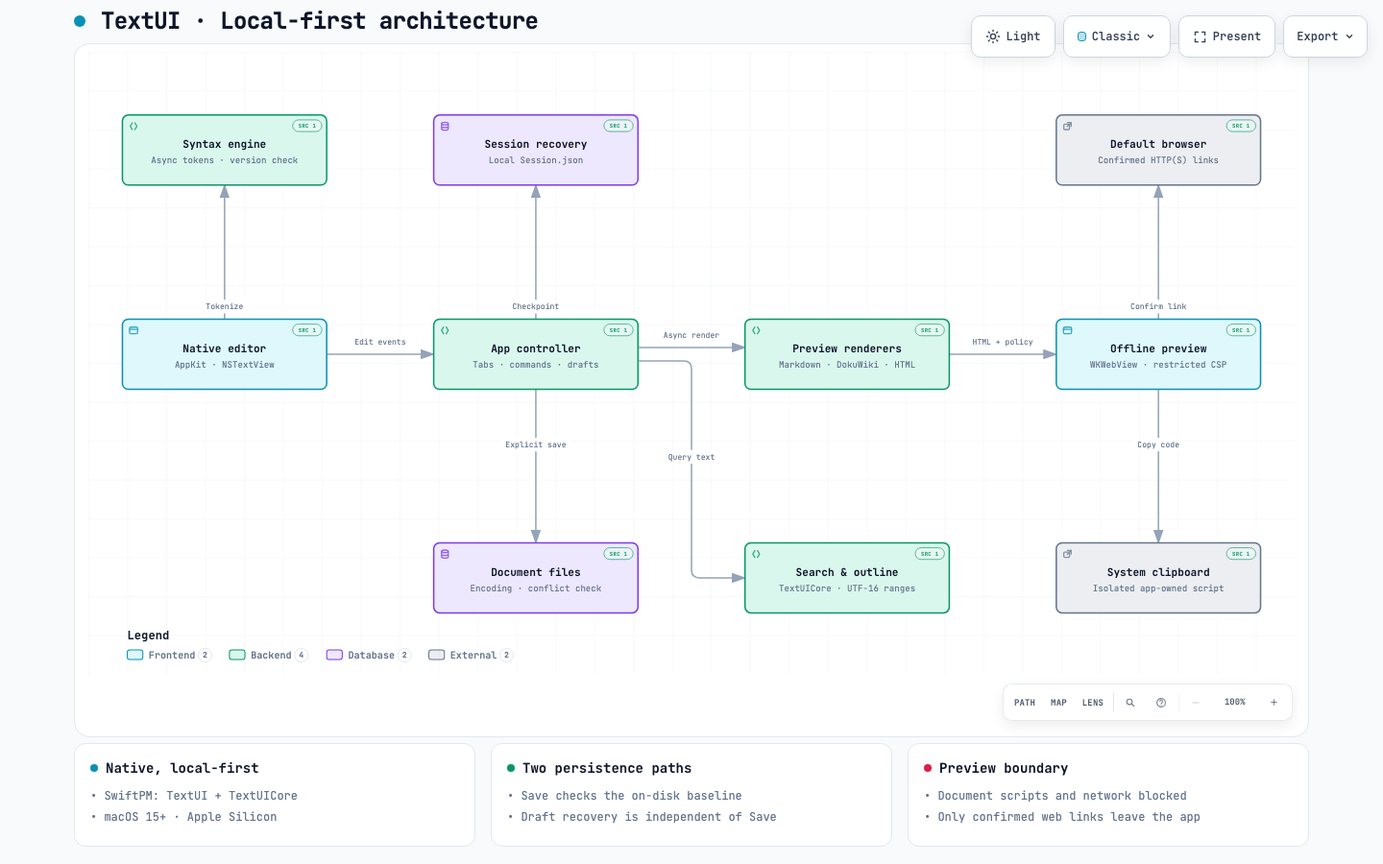
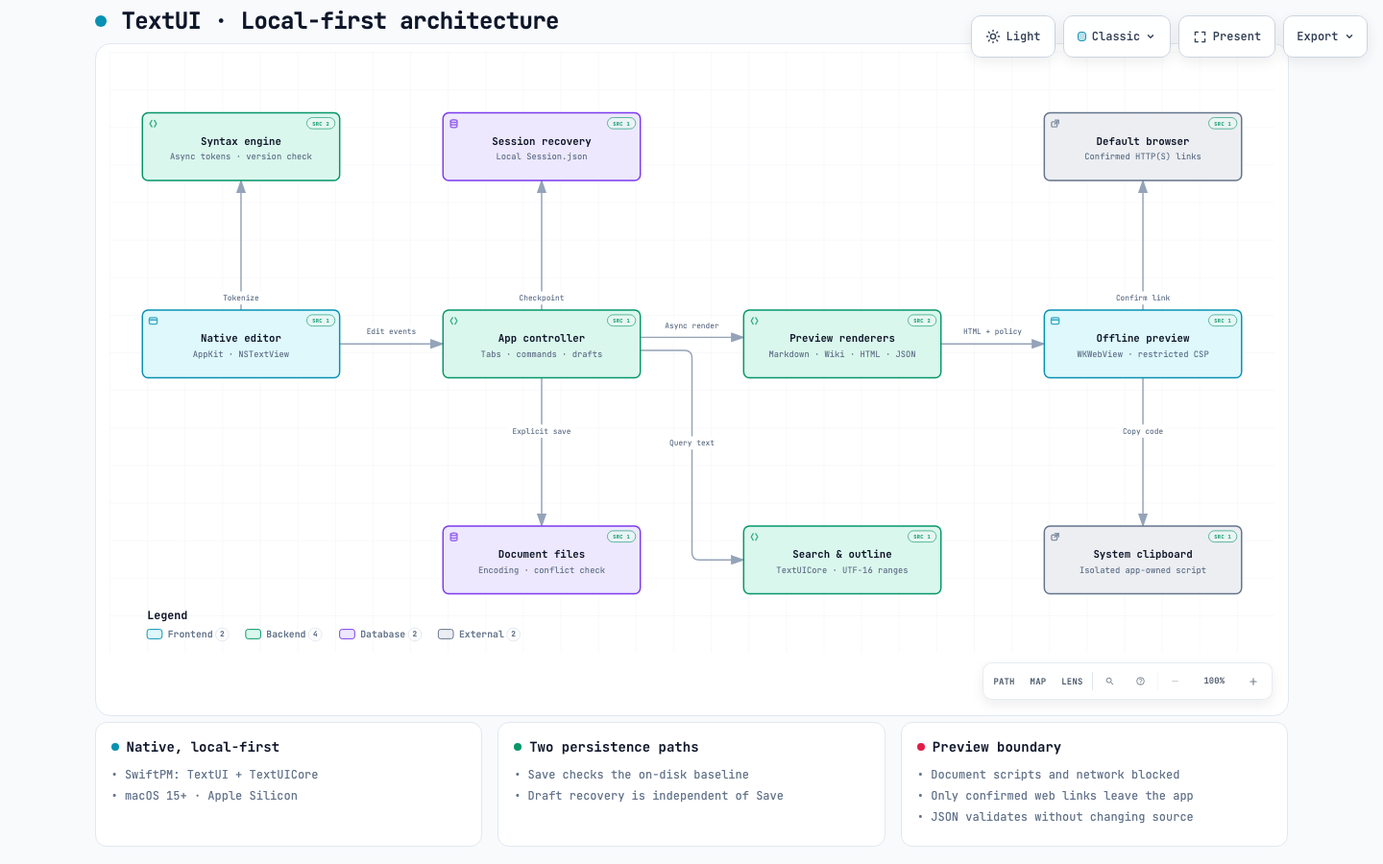
Document JSON support in the verified architecture page

diff --git a/docs/index.html b/docs/index.html
@@ -5086,7 +5086,7 @@ OTHER DEALINGS IN THE FONT SOFTWARE.
     </div>
 
     <script id="archify-guided-views-data" type="application/json">[]</script>
-    <script id="archify-source-evidence-data" type="application/json">{"schemaVersion":1,"verified":true,"repository":{"url":"https://github.com/r3d42-git/R3DsTextUI","revision":"73adb159cf5579e12d25bb16bd4c21d1ea8dd4b3","shortRevision":"73adb15","label":"r3d42-git/R3DsTextUI","href":"https://github.com/r3d42-git/R3DsTextUI/tree/73adb159cf5579e12d25bb16bd4c21d1ea8dd4b3"},"referenceCount":10,"nodes":{"editor":[{"path":"Sources/TextUI/EditorPane.swift","line":5,"href":"https://github.com/r3d42-git/R3DsTextUI/blob/73adb159cf5579e12d25bb16bd4c21d1ea8dd4b3/Sources/TextUI/EditorPane.swift#L5"}],"controller":[{"path":"Sources/TextUI/AppController.swift","line":16,"href":"https://github.com/r3d42-git/R3DsTextUI/blob/73adb159cf5579e12d25bb16bd4c21d1ea8dd4b3/Sources/TextUI/AppController.swift#L16"}],"renderers":[{"path":"Sources/TextUI/AppController.swift","line":567,"href":"https://github.com/r3d42-git/R3DsTextUI/blob/73adb159cf5579e12d25bb16bd4c21d1ea8dd4b3/Sources/TextUI/AppController.swift#L567"}],"webview":[{"path":"Sources/TextUI/AppController.swift","line":573,"href":"https://github.com/r3d42-git/R3DsTextUI/blob/73adb159cf5579e12d25bb16bd4c21d1ea8dd4b3/Sources/TextUI/AppController.swift#L573"}],"syntax":[{"path":"Sources/TextUI/EditorPane.swift","line":174,"href":"https://github.com/r3d42-git/R3DsTextUI/blob/73adb159cf5579e12d25bb16bd4c21d1ea8dd4b3/Sources/TextUI/EditorPane.swift#L174"}],"session":[{"path":"Sources/TextUICore/Documents.swift","line":100,"href":"https://github.com/r3d42-git/R3DsTextUI/blob/73adb159cf5579e12d25bb16bd4c21d1ea8dd4b3/Sources/TextUICore/Documents.swift#L100"}],"files":[{"path":"Sources/TextUICore/Documents.swift","line":86,"href":"https://github.com/r3d42-git/R3DsTextUI/blob/73adb159cf5579e12d25bb16bd4c21d1ea8dd4b3/Sources/TextUICore/Documents.swift#L86"}],"search":[{"path":"Sources/TextUI/AppController.swift","line":489,"href":"https://github.com/r3d42-git/R3DsTextUI/blob/73adb159cf5579e12d25bb16bd4c21d1ea8dd4b3/Sources/TextUI/AppController.swift#L489"}],"browser":[{"path":"Sources/TextUI/AppController.swift","line":597,"href":"https://github.com/r3d42-git/R3DsTextUI/blob/73adb159cf5579e12d25bb16bd4c21d1ea8dd4b3/Sources/TextUI/AppController.swift#L597"}],"clipboard":[{"path":"Sources/TextUI/PreviewCodeCopy.swift","line":11,"href":"https://github.com/r3d42-git/R3DsTextUI/blob/73adb159cf5579e12d25bb16bd4c21d1ea8dd4b3/Sources/TextUI/PreviewCodeCopy.swift#L11"}]}}</script>
+    <script id="archify-source-evidence-data" type="application/json">{"schemaVersion":1,"verified":true,"repository":{"url":"https://github.com/r3d42-git/R3DsTextUI","revision":"4a90c64e67d5fc52b7861e375b01907dca56f409","shortRevision":"4a90c64","label":"r3d42-git/R3DsTextUI","href":"https://github.com/r3d42-git/R3DsTextUI/tree/4a90c64e67d5fc52b7861e375b01907dca56f409"},"referenceCount":12,"nodes":{"editor":[{"path":"Sources/TextUI/EditorPane.swift","line":5,"href":"https://github.com/r3d42-git/R3DsTextUI/blob/4a90c64e67d5fc52b7861e375b01907dca56f409/Sources/TextUI/EditorPane.swift#L5"}],"controller":[{"path":"Sources/TextUI/AppController.swift","line":16,"href":"https://github.com/r3d42-git/R3DsTextUI/blob/4a90c64e67d5fc52b7861e375b01907dca56f409/Sources/TextUI/AppController.swift#L16"}],"renderers":[{"path":"Sources/TextUI/AppController.swift","line":568,"href":"https://github.com/r3d42-git/R3DsTextUI/blob/4a90c64e67d5fc52b7861e375b01907dca56f409/Sources/TextUI/AppController.swift#L568"},{"path":"Sources/TextUICore/JSONPreview.swift","line":5,"href":"https://github.com/r3d42-git/R3DsTextUI/blob/4a90c64e67d5fc52b7861e375b01907dca56f409/Sources/TextUICore/JSONPreview.swift#L5"}],"webview":[{"path":"Sources/TextUI/AppController.swift","line":574,"href":"https://github.com/r3d42-git/R3DsTextUI/blob/4a90c64e67d5fc52b7861e375b01907dca56f409/Sources/TextUI/AppController.swift#L574"}],"syntax":[{"path":"Sources/TextUI/EditorPane.swift","line":174,"href":"https://github.com/r3d42-git/R3DsTextUI/blob/4a90c64e67d5fc52b7861e375b01907dca56f409/Sources/TextUI/EditorPane.swift#L174"},{"path":"Sources/TextUICore/SyntaxHighlighting.swift","line":31,"href":"https://github.com/r3d42-git/R3DsTextUI/blob/4a90c64e67d5fc52b7861e375b01907dca56f409/Sources/TextUICore/SyntaxHighlighting.swift#L31"}],"session":[{"path":"Sources/TextUICore/Documents.swift","line":101,"href":"https://github.com/r3d42-git/R3DsTextUI/blob/4a90c64e67d5fc52b7861e375b01907dca56f409/Sources/TextUICore/Documents.swift#L101"}],"files":[{"path":"Sources/TextUICore/Documents.swift","line":87,"href":"https://github.com/r3d42-git/R3DsTextUI/blob/4a90c64e67d5fc52b7861e375b01907dca56f409/Sources/TextUICore/Documents.swift#L87"}],"search":[{"path":"Sources/TextUI/AppController.swift","line":489,"href":"https://github.com/r3d42-git/R3DsTextUI/blob/4a90c64e67d5fc52b7861e375b01907dca56f409/Sources/TextUI/AppController.swift#L489"}],"browser":[{"path":"Sources/TextUI/AppController.swift","line":598,"href":"https://github.com/r3d42-git/R3DsTextUI/blob/4a90c64e67d5fc52b7861e375b01907dca56f409/Sources/TextUI/AppController.swift#L598"}],"clipboard":[{"path":"Sources/TextUI/PreviewCodeCopy.swift","line":11,"href":"https://github.com/r3d42-git/R3DsTextUI/blob/4a90c64e67d5fc52b7861e375b01907dca56f409/Sources/TextUI/PreviewCodeCopy.swift#L11"}]}}</script>
     <script id="archify-i18n-data" type="application/json">{"locale":"en","messages":{"viewer.kind.frontend":"Frontend","viewer.kind.backend":"Backend","viewer.kind.database":"Database","viewer.kind.cloud":"Cloud","viewer.kind.security":"Security","viewer.kind.messagebus":"Message bus","viewer.kind.external":"External","viewer.kind.neutral":"Neutral","viewer.kind.node":"Node","viewer.kind.start":"Start","viewer.kind.active":"Active","viewer.kind.waiting":"Waiting","viewer.kind.decision":"Decision","viewer.kind.success":"Success","viewer.kind.failure":"Failure","viewer.toolbar.actions":"Diagram actions","viewer.theme.toggle.title":"Toggle theme (T)","viewer.theme.toggle":"Toggle color theme","viewer.theme.dark":"Dark","viewer.theme.light":"Light","viewer.preset.choose.title":"Choose visual style (S cycles)","viewer.preset.choose":"Choose visual style","viewer.preset.style":"Style","viewer.preset.menu":"Visual style","viewer.preset.identity":"Visual identity","viewer.preset.cycles":"S cycles","viewer.preset.classic":"Classic","viewer.preset.classic.short":"Classic","viewer.preset.classic.hint":"Stable technical default","viewer.preset.flow":"Signal Flow","viewer.preset.flow.short":"Flow","viewer.preset.flow.hint":"Motion-forward presentation","viewer.preset.blueprint":"Blueprint","viewer.preset.blueprint.hint":"Engineering review","viewer.preset.editorial":"Editorial","viewer.preset.editorial.hint":"Publication and launch notes","viewer.preset.badge.signalFlow":"SIGNAL FLOW","viewer.preset.badge.blueprint":"BLUEPRINT / REV 01","viewer.preset.badge.editorial":"EDITORIAL / FIELD NOTE","viewer.preset.badge.editorialPlate":"ARCHIFY / PLATE 04","viewer.preset.current":"Visual style: {style}. Choose visual style","viewer.motion.live":"Live","viewer.motion.still":"Still","viewer.motion.pause":"Pause motion","viewer.motion.resume":"Resume motion","viewer.motion.reduced":"Motion paused by reduced-motion preference","viewer.motion.hidden":"Motion paused while this page is hidden","viewer.motion.yielding":"Pause motion; currently yielding to {owner}","viewer.motion.yielding.title":"Live preview enabled · yielding to {owner}","viewer.owner.story":"the guided story","viewer.owner.chapter":"the active chapter","viewer.owner.chapterPreview":"the chapter delta preview","viewer.owner.handoff":"the chapter handoff","viewer.owner.route":"Route Probe","viewer.owner.lens":"Semantic Lens","viewer.owner.relationship":"Relationship Preview","viewer.owner.intent":"Intent Trace","viewer.owner.focus":"semantic focus","viewer.owner.legend":"legend preview","viewer.owner.reader":"reader interaction","viewer.present.enter":"Enter presentation stage","viewer.present.enter.title":"Presentation stage (F)","viewer.present.exit":"Exit presentation stage","viewer.present.exit.title":"Exit presentation stage (F or Escape)","viewer.present.present":"Present","viewer.present.exit.label":"Exit","viewer.export.button":"Export","viewer.export.button.title":"Export diagram (E)","viewer.export.diagram":"Export diagram","viewer.export.menu":"Export","viewer.export.subtitle":"Portable, clean outputs","viewer.export.share":"Share","viewer.export.shareCard":"Share Card","viewer.export.routeShareCard":"Route Share Card","viewer.export.reachShareCard":"Reach Share Card","viewer.export.copyShareCard":"Copy Share Card","viewer.export.copyDiagram":"Copy diagram","viewer.export.clipboardPng":"PNG to clipboard","viewer.export.raster":"Raster images","viewer.export.image":"Image","viewer.export.lossless":"Lossless image","viewer.export.compact":"Compact image","viewer.export.modern":"Modern image","viewer.export.vectorMotion":"Vector and motion","viewer.export.vectorMotion.heading":"Vector \u0026 motion","viewer.export.editable":"Editable vector","viewer.export.motion6s":"6s motion","viewer.export.unsupported":"Not supported by this browser","viewer.export.clipboardUnsupported":"Clipboard image write not supported by this browser","viewer.export.clipboardUnsupported.period":"Clipboard image write not supported by this browser.","viewer.export.clipboardUnsupported.short":"Clipboard image write not supported in this browser.","viewer.export.motionUnavailable":"Motion capture unavailable in this browser","viewer.export.webmUnavailable":"WebM unavailable in this browser","viewer.export.failed":"Export failed: {message}","viewer.export.unknownVariant":"Unknown Share Card variant: {variant}","viewer.export.routeRequired":"Trace a route before exporting a Route Share Card","viewer.export.reachRequired":"Trace authored reach before exporting a Reach Share Card","viewer.export.unknown":"unknown","viewer.export.routeFailed":"Route Share Card export failed: {message}","viewer.export.reachFailed":"Reach Share Card export failed: {message}","viewer.export.copyFailed":"Copy failed: {message}","viewer.export.copiedPng":"Copied PNG to clipboard","viewer.export.copiedShare":"Copied Share Card","viewer.export.downloadedShare":"Downloaded Share Card","viewer.export.downloadedRoute":"Downloaded Route Share Card","viewer.export.downloadedReach":"Downloaded Reach Share Card","viewer.export.downloadedWebm":"Downloaded WebM","viewer.export.recording":"Recording 6 seconds of motion…","viewer.export.card.routeSummary.one":"Route: {source} → {target} · {count} directed hop","viewer.export.card.routeSummary.other":"Route: {source} → {target} · {count} directed hops","viewer.export.card.reachSummary":"Authored {direction} from {origin} · {nodes} · {links} · max {hops}","viewer.export.card.node.one":"{count} node","viewer.export.card.node.other":"{count} nodes","viewer.export.card.link.one":"{count} link","viewer.export.card.link.other":"{count} links","viewer.export.card.hop.one":"{count} hop","viewer.export.card.hop.other":"{count} hops","viewer.export.card.routeBadge":"ARCHIFY · ROUTE · {hops}","viewer.export.card.reachBadge":"ARCHIFY · {direction} REACH","viewer.export.card.defaultBadge":"ARCHIFY · {preset} · {theme}","viewer.export.direction.upstream":"Upstream","viewer.export.direction.downstream":"Downstream","viewer.export.error.canvasUnavailable":"Canvas unavailable for {label}","viewer.export.error.contextUnavailable":"2D canvas context unavailable for {label}","viewer.export.error.toBlobUnavailable":"canvas.toBlob unavailable for {label}","viewer.export.error.toBlobNull":"canvas.toBlob returned no data for {label}","viewer.export.error.variantsCombined":"Share Card variants cannot be combined","viewer.export.error.viewerState":"Share Card export could not remove temporary viewer state","viewer.export.error.routeState":"Route Card export could not preserve the resolved route safely","viewer.export.error.reachState":"Reach Card export could not preserve authored reach safely","viewer.export.error.webmRequirements":"WebM motion export requires a trace animation and browser MediaRecorder support","viewer.export.error.mediaRecorder":"MediaRecorder failed","viewer.export.error.emptyWebm":"MediaRecorder produced an empty WebM","viewer.export.error.webmBackground":"SVG background could not be loaded for WebM export","viewer.guided.region":"Guided diagram views","viewer.guided.previous":"Previous guided view","viewer.guided.previous.title":"Previous guided view ([)","viewer.guided.next":"Next guided view","viewer.guided.next.title":"Next guided view (])","viewer.guided.views":"Guided views","viewer.guided.explore":"Explore this system","viewer.guided.intro":"Step through curated paths without changing the source diagram.","viewer.guided.trail":"Story trail","viewer.guided.beat":"Beat","viewer.guided.nextBeat":"Next","viewer.guided.play":"Play guided story","viewer.guided.play.title":"Play guided story (P)","viewer.guided.pause":"Pause guided story","viewer.guided.pause.title":"Pause guided story (P)","viewer.guided.replay":"Replay guided story","viewer.guided.replay.title":"Replay guided story (P)","viewer.guided.playStory":"Play story","viewer.guided.pauseStory":"Pause","viewer.guided.replayStory":"Replay story","viewer.guided.motionUnavailable":"Story playback unavailable while motion is Still","viewer.guided.enableMotion":"Switch motion to Live to play the guided story","viewer.guided.selectBeatLink":"Select a Story Beat to copy its exact link","viewer.guided.copyMoment":"Copy moment","viewer.guided.momentCopied":"Moment link copied","viewer.guided.momentCopyFailed":"Could not copy story moment link","viewer.guided.copied":"Copied","viewer.guided.copyFailed":"Copy failed","viewer.guided.showAll":"Show all","viewer.guided.showAll.aria":"Show entire diagram","viewer.guided.chapters":"Story chapters","viewer.guided.storyTrail":"Story trail for {label}: {count} beats","viewer.guided.chapter.open":"Open chapter {index} of {total}: {label}, {count} stops","viewer.guided.chapter.current":"Current chapter {index} of {total}: {label}, {count} stops","viewer.guided.chapter.selectedNodes":"{count} selected nodes","viewer.guided.chapter.stops":"{count} stops","viewer.guided.chapter.stop.one":"{count} stop","viewer.guided.chapter.stop.other":"{count} stops","viewer.guided.chapter.current.title":"{label} — current chapter, {count} stops","viewer.guided.chapter.delta.expanded":"{stay} stay, {enter} enter, {leave} leave","viewer.guided.chapter.delta.aria":"Open chapter {index} of {total}: {label}. Chapter focus delta: {delta}","viewer.guided.chapter.delta.title":"{label} — {delta} chapter focus","viewer.guided.handoff":"{from} → {to} · via {label}","viewer.guided.share.chapter":"Chapter {index} / {total}","viewer.guided.share.initial":"Chapter 01 / 01","viewer.guided.share.default":"Guided chapter","viewer.guided.state.ready":"Ready","viewer.guided.state.playing":"Playing","viewer.guided.state.settled":"Settled","viewer.guided.state.paused":"Paused","viewer.guided.state.pinned":"Pinned","viewer.guided.state.still":"Still","viewer.guided.share.step":"Step {index} / {total} · {label}","viewer.guided.share.staticMoment":"{step} · Static moment","viewer.guided.share.complete":"{count} steps complete · {note}","viewer.guided.share.settled":"Path settled for reading.","viewer.guided.share.staticPath":"{count} steps · Static path","viewer.guided.share.ready":"{count} steps · Ready","viewer.guided.share.aria":"{state} chapter {index} of {total}: {label}. {beat}. {route}","viewer.guided.beat.start":"Beat {index} / {total} · {label} · starting point","viewer.guided.beat.forward":"Beat {index} / {total} · {from} → {to}","viewer.guided.beat.reverse":"Beat {index} / {total} · {from} → {to} · reverse authored link","viewer.guided.beat.multiple":"Beat {index} / {total} · {from} ⇄ {to} · {count} authored links","viewer.guided.beat.group":"Beat {index} / {total} · {from} · {to} · grouped · no direct link","viewer.guided.beat.aria.prefix":"Story beat {index} of {total}: {label}. ","viewer.guided.beat.aria.start":"Starting point.","viewer.guided.beat.aria.forward":"From {from} through one authored forward relationship.","viewer.guided.beat.aria.reverse":"From {from}; the authored relationship points from {to} to {from}.","viewer.guided.beat.aria.multiple":"From {from} through {count} authored relationships; shown without arbitrary motion.","viewer.guided.beat.aria.group":"Grouped from {from} with no direct authored relationship.","viewer.guided.caption.start":"Starting point","viewer.guided.caption.grouped":"Grouped transition · no direct authored link","viewer.guided.caption.more":" +{count} more","viewer.guided.caption.reverse":"Reverse authored relationship","viewer.guided.caption.relationships":"{count} authored relationships","viewer.guided.caption.relationship":"Authored relationship","viewer.guided.caption.direction":"authored direction: {from} → {to}","viewer.guided.caption.starting":"Authored starting point","viewer.guided.beatLink":"Copy link to current story moment: Beat {index} of {total}: {label}","viewer.guided.noStory":"This diagram has no authored guided story.","viewer.guide.eyebrow":"Diagram guide","viewer.guide.close":"Close diagram guide","viewer.guide.inspecting":"Inspecting compiled semantics","viewer.guide.actions":"Diagram exploration actions","viewer.guide.find":"Find any node","viewer.guide.find.hint":"Search labels, responsibilities, kinds, and stable IDs.","viewer.guide.route":"Trace a route","viewer.guide.route.aria":"Trace a directed route","viewer.guide.route.hint":"Ask how two semantic nodes connect in authored direction.","viewer.guide.map":"See the whole system","viewer.guide.map.hint":"Open Semantic Radar with a live viewport and stable nodes.","viewer.guide.lens":"Compare semantic kinds","viewer.guide.lens.hint":"Count roles, reveal their traffic, and compare direct authored links.","viewer.guide.story":"Play the guided story","viewer.guide.story.hint":"Walk the authored chapters and real relationships.","viewer.guide.present":"Enter Presentation Stage","viewer.guide.present.hint":"Give the live diagram the viewport without changing export.","viewer.guide.shortcuts":"Additional keyboard shortcuts","viewer.guide.shortcut.export":"Export","viewer.guide.shortcut.theme":"Theme","viewer.guide.shortcut.style":"Style","viewer.guide.shortcut.reset":"Reset","viewer.guide.shortcut.zoomIn":"Zoom in","viewer.guide.shortcut.zoomOut":"Zoom out","viewer.guide.shortcut.close":"Close","viewer.guide.facts":"{nodes} · {relationships} · {views}","viewer.guide.fact.node.one":"{count} semantic node","viewer.guide.fact.node.other":"{count} semantic nodes","viewer.guide.fact.relationship.one":"{count} relationship","viewer.guide.fact.relationship.other":"{count} relationships","viewer.guide.fact.view.one":"{count} guided view","viewer.guide.fact.view.other":"{count} guided views","viewer.guide.story.available.one":"Walk {count} authored chapter and its real relationships.","viewer.guide.story.available.other":"Walk {count} authored chapters and their real relationships.","viewer.guide.story.unavailable":"No authored guided story in this diagram.","viewer.guide.open":"Open diagram guide","viewer.guide.noStory":"This diagram has no authored guided story.","viewer.finder.title":"Find a node","viewer.finder.close":"Close node finder","viewer.finder.placeholder":"Search labels or IDs","viewer.finder.search":"Search diagram nodes","viewer.finder.results":"Diagram nodes","viewer.finder.empty":"No matching nodes","viewer.finder.result.focus":"Focus {label}","viewer.finder.result.routeStart":"Choose {label} as route start","viewer.finder.result.routeTarget":"Choose {label} as route destination, {links}","viewer.finder.status.empty":"No matching nodes","viewer.finder.status.count.one":"{count} matching node","viewer.finder.status.count.other":"{count} matching nodes","viewer.finder.noun.nodes":"nodes","viewer.finder.link.one":"{count} link","viewer.finder.link.other":"{count} links","viewer.finder.result.focus.one":"Focus {label}, {count} related connection","viewer.finder.result.focus.other":"Focus {label}, {count} related connections","viewer.finder.status.filtered":"{visible} of {available} {noun}","viewer.finder.status.all":"{available} {noun}","viewer.passport.eyebrow":"Semantic passport","viewer.passport.metadata":"Node metadata","viewer.passport.evidence":"Verified source evidence","viewer.passport.verified":"Verified source","viewer.passport.verificationScope":"Verified against local Git at the pinned revision. Remote access has not been checked.","viewer.passport.reach":"Authored reach","viewer.passport.reach.trace":"Trace authored reachability","viewer.passport.upstream":"Upstream","viewer.passport.downstream":"Downstream","viewer.passport.upstream.trace":"Trace upstream authored reachability","viewer.passport.downstream.trace":"Trace downstream authored reachability","viewer.passport.close":"Close semantic passport","viewer.passport.copy":"Copy link","viewer.passport.copy.focus":"Copy link to focused node","viewer.passport.relations":"Relations","viewer.passport.relations.show":"Show connected relationships","viewer.passport.relations.hide":"Hide connected relationships","viewer.passport.relations.list":"Connected relationships","viewer.passport.copyRelation":"Copy relation","viewer.passport.copyNode":"Copy node","viewer.passport.copyPinned":"Copy link to pinned relationship","viewer.passport.copySource":"Copy link to source node","viewer.passport.copy.focused.success":"Focused node link copied","viewer.passport.copy.pinned.success":"Pinned relationship link copied","viewer.passport.copy.focused.failed":"Could not copy focused node link","viewer.passport.copy.pinned.failed":"Could not copy pinned relationship link","viewer.passport.relationship.none":"No connected relationships","viewer.passport.relationship.count.one":"{count} relation","viewer.passport.relationship.count.other":"{count} relations","viewer.passport.relationship.show.one":"Show {count} connected relationship","viewer.passport.relationship.show.other":"Show {count} connected relationships","viewer.passport.relationship.summary":"{out} outgoing · {in} incoming{loops}","viewer.passport.relationship.loops":" · {count} loop","viewer.passport.relationship.explorer":"Direct relationship explorer","viewer.passport.relationship.help":"Use arrow keys to explore relationships. Press Enter or Space to pin details; Escape clears.","viewer.passport.relationship.loopsBack":"loops back","viewer.passport.relationship.connectsTo":"connects to","viewer.passport.relationship.connectsFrom":"connects from","viewer.passport.relationship.pinned":"Pinned relationship · {from} → {to} · {label}","viewer.passport.relationship.inspect":"Inspect relationship {index} of {total}: {from} to {to}, {label}. Press Enter for details.","viewer.passport.relationship.group.out":"Outgoing","viewer.passport.relationship.group.in":"Incoming","viewer.passport.relationship.group.loop":"Self loops","viewer.passport.relationship.row":"{group}: {relationship}, {neighbor}","viewer.passport.relationship.direction.out":"OUT →","viewer.passport.relationship.direction.in":"← IN","viewer.passport.relationship.direction.loop":"LOOP","viewer.passport.sourceCount.one":"{count} verified source reference","viewer.passport.sourceCount.other":"{count} verified source references","viewer.passport.sourceMarker":"SRC","viewer.passport.beacon.one":"{count} verified source; focus this node to inspect","viewer.passport.beacon.other":"{count} verified sources; focus this node to inspect","viewer.passport.repository.open":"Open verified repository revision {revision}","viewer.passport.source.open":"Open verified source {path} at revision {revision}","viewer.passport.source.openLink":"Open ↗","viewer.passport.reach.upstream.one":"Trace {count} upstream authored node","viewer.passport.reach.upstream.other":"Trace {count} upstream authored nodes","viewer.passport.reach.downstream.one":"Trace {count} downstream authored node","viewer.passport.reach.downstream.other":"Trace {count} downstream authored nodes","viewer.passport.reach.noUpstream":"No upstream authored nodes","viewer.passport.reach.noDownstream":"No downstream authored nodes","viewer.passport.reach.status":"{direction} · {nodes} nodes · {links} links · max {hops} hops","viewer.route.eyebrow":"Route probe","viewer.route.start":"Choose a start node","viewer.route.start.find":"Find start","viewer.route.start.find.aria":"Find a route start","viewer.route.copy":"Copy link","viewer.route.copy.aria":"Copy link to traced route","viewer.route.clear":"Clear","viewer.route.clear.aria":"Clear route probe","viewer.route.traced":"Traced route","viewer.route.pickTwo":"Pick two semantic nodes on the diagram","viewer.route.pickOne":"Pick a semantic node on the diagram","viewer.route.controls":"Route journey controls","viewer.route.previous":"Previous route position","viewer.route.play":"Play route journey","viewer.route.pause":"Pause route journey","viewer.route.replay":"Replay route journey","viewer.route.next":"Next route position","viewer.route.journey":"Journey","viewer.route.pause.label":"Pause","viewer.route.replay.label":"Replay","viewer.route.overview":"Overview","viewer.route.overview.aria":"Show complete route overview","viewer.route.instructions":"Choose the source, then the destination. Direction matters.","viewer.route.destination":"Choose a destination from {label}","viewer.route.destination.find":"Find target","viewer.route.destination.find.aria":"Find a reachable route destination","viewer.route.differentDestination":"Choose a different destination","viewer.route.distinct":"A route needs two distinct semantic nodes.","viewer.route.unreachable":"No directed route to {label}","viewer.route.unreachable.detail":"{target} is not reachable from {source}. Pick a highlighted destination.","viewer.route.start.instructions":"Select the source. The next step will reveal only directed destinations.","viewer.route.copy.success":"Traced route link copied","viewer.route.copy.failed":"Could not copy traced route link","viewer.route.position":"Route position {index} of {total}: {label}","viewer.route.step":"Step {index} of {total} · {phase} · {label}","viewer.route.motionRequired":"Automatic journey requires Live motion","viewer.route.trigger.clear":"Clear traced route","viewer.route.overview.status":"{nodes} · {hops} · shortest authored route","viewer.route.overview.node.one":"{count} node","viewer.route.overview.node.other":"{count} nodes","viewer.route.overview.hop.one":"{count} directed hop","viewer.route.overview.hop.other":"{count} directed hops","viewer.route.phase.playing":"Playing","viewer.route.phase.complete":"Complete","viewer.route.phase.inspecting":"Inspecting","viewer.route.destination.count.one":"{count} directed destination available. Pick a highlighted node.","viewer.route.destination.count.other":"{count} directed destinations available. Pick a highlighted node.","viewer.route.noOutgoing":"No outgoing route starts here. Clear and choose another source.","viewer.route.result.title":"{source} to {target}","viewer.route.finder.source.title":"Choose route start","viewer.route.finder.source.placeholder":"Search route sources","viewer.route.finder.source.empty":"No matching route sources","viewer.route.finder.source.results":"Nodes that can start a route","viewer.route.finder.source.noun":"route sources","viewer.route.finder.source.badge":"start","viewer.route.finder.target.title":"Destination from {label}","viewer.route.finder.target.placeholder":"Search reachable destinations","viewer.route.finder.target.empty":"No matching reachable destinations","viewer.route.finder.target.results":"Reachable route destinations","viewer.route.finder.target.noun":"reachable destinations","viewer.route.hop.one":"{count} hop","viewer.route.hop.other":"{count} hops","viewer.lens.eyebrow":"Semantic lens","viewer.lens.title":"Compare system roles","viewer.lens.close":"Close semantic lens","viewer.lens.instruction":"Choose up to two semantic kinds. One reveals its real traffic; two compare only direct authored relationships.","viewer.lens.kinds":"Semantic kinds","viewer.lens.choose":"Choose a kind to inspect its nodes and touching relationships.","viewer.lens.copy":"Copy link to semantic lens","viewer.lens.clear":"Clear semantic lens","viewer.lens.open":"Open semantic lens","viewer.lens.openActive":"Open active semantic lens","viewer.lens.legend":"Semantic legend","viewer.lens.legend.inspect.one":"Inspect {label}, {count} node","viewer.lens.legend.inspect.other":"Inspect {label}, {count} nodes","viewer.lens.kind.count.one":"{label}, {count} node","viewer.lens.kind.count.other":"{label}, {count} nodes","viewer.lens.compare.one":"{first} → {second}: {forward} · {second} → {first}: {reverse} · {count} direct relationship","viewer.lens.compare.other":"{first} → {second}: {forward} · {second} → {first}: {reverse} · {count} direct relationships","viewer.lens.single":"{nodes} · {relationships} · connected peers remain visible","viewer.lens.node.one":"{count} {label} node","viewer.lens.node.other":"{count} {label} nodes","viewer.lens.relationship.one":"{count} touching relationship","viewer.lens.relationship.other":"{count} touching relationships","viewer.radar.title":"Semantic radar","viewer.radar.building":"Building overview","viewer.radar.openFull":"Open full semantic radar","viewer.radar.open":"Open radar","viewer.radar.close":"Close semantic radar","viewer.radar.surface":"Diagram overview. Click a node to focus it, or use arrow keys to pan.","viewer.radar.click":"Click node","viewer.radar.drag":"Drag to pan","viewer.radar.space":"Semantic radar needs more MAP space.","viewer.radar.nodes":"Semantic diagram radar nodes","viewer.radar.focus":"Focus {label} from Semantic Radar","viewer.radar.status":"{count} nodes · {viewport}","viewer.radar.fullMap":"{count} nodes · full map","viewer.radar.compacted":"Radar compacted to avoid covering the Semantic Passport or MAP controls.","viewer.radar.cancelWaiting":"Cancel semantic radar waiting for more MAP space","viewer.radar.needsSpace":"Semantic radar needs more visible MAP space","viewer.radar.viewport.full":"full map","viewer.radar.viewport.width":"{percent}% width","viewer.radar.viewport.scale":"{percent}% viewport","viewer.nav.controls":"Diagram view controls","viewer.nav.route":"Trace a directed route","viewer.nav.route.title":"Trace route (R)","viewer.nav.route.short":"PATH","viewer.nav.radar":"Open semantic radar","viewer.nav.radar.title":"Semantic radar (M)","viewer.nav.radar.short":"MAP","viewer.nav.lens":"Open semantic lens","viewer.nav.lens.title":"Semantic lens (L)","viewer.nav.lens.short":"LENS","viewer.nav.find":"Find a node","viewer.nav.find.title":"Find a node (/)","viewer.nav.guide":"Open diagram guide","viewer.nav.guide.title":"Diagram guide (?)","viewer.nav.zoomOut":"Zoom out","viewer.nav.zoomOut.title":"Zoom out (-)","viewer.nav.reset":"Reset diagram view","viewer.nav.reset.title":"Reset view (0)","viewer.nav.read":"READ","viewer.nav.zoomIn":"Zoom in","viewer.nav.zoomIn.title":"Zoom in (+)","viewer.nav.camera":"{hint}. Reset diagram view","viewer.nav.camera.title":"{semantic}{hint} · reset view (0)","viewer.nav.camera.semantic":"Semantic camera active · ","viewer.nav.level.map":"MAP","viewer.nav.level.read":"READ","viewer.nav.level.full":"FULL","viewer.nav.level.auto":"AUTO","viewer.nav.detail.map":"Zoom in to reveal relationship labels and node context","viewer.nav.detail.read":"Zoom in again to reveal tags and annotations","viewer.nav.detail.full":"Full diagram detail","viewer.intent.summary":"{label}. {out} outgoing, {in} incoming{loops}. {total} connections. Press Enter for details.","viewer.intent.loops":", {count} self loop","viewer.common.copied":"Copied","viewer.common.copyFailed":"Copy failed","viewer.common.copyLink":"Copy link","viewer.common.clear":"Clear","viewer.common.close":"Close"}}</script>
     <div class="guided-views no-print" id="guided-views" hidden aria-label="Guided diagram views">
       <button id="guided-view-prev" type="button" aria-label="Previous guided view" title="Previous guided view ([)">&#8592;</button>
@@ -5195,15 +5195,15 @@ OTHER DEALINGS IN THE FONT SOFTWARE.
         <text data-detail="context" x="460" y="325" class="t-muted" font-size="9" text-anchor="middle">Tabs · commands · drafts</text>
         </g>
 
-        <g id="node-renderers" data-node-id="renderers" data-node-label="Preview renderers" tabindex="0" role="button" aria-label="Focus Preview renderers, Markdown · DokuWiki · HTML, Architecture component" aria-pressed="false" data-node-kind="backend" data-node-sublabel="Markdown · DokuWiki · HTML" data-node-context="Architecture component">
-          <title>Preview renderers · Markdown · DokuWiki · HTML · Architecture component</title>
+        <g id="node-renderers" data-node-id="renderers" data-node-label="Preview renderers" tabindex="0" role="button" aria-label="Focus Preview renderers, Markdown · Wiki · HTML · JSON, Architecture component" aria-pressed="false" data-node-kind="backend" data-node-sublabel="Markdown · Wiki · HTML · JSON" data-node-context="Architecture component">
+          <title>Preview renderers · Markdown · Wiki · HTML · JSON · Architecture component</title>
           <rect x="675" y="275" width="210" height="72" rx="6" class="c-mask"/>
           <rect x="675" y="275" width="210" height="72" rx="6" class="c-backend" stroke-width="1.5"/>
           <g aria-hidden="true" data-semantic-sigil="backend" class="semantic-sigil s-backend" transform="translate(681 281) scale(0.6875)">
             <path d="M6 3 3 8l3 5M10 3l3 5-3 5"/>
           </g>
           <text data-node-label="" data-detail-anchor="" x="780" y="309" class="t-primary" font-size="11" font-weight="600" text-anchor="middle">Preview renderers</text>
-        <text data-detail="context" x="780" y="325" class="t-muted" font-size="9" text-anchor="middle">Markdown · DokuWiki · HTML</text>
+        <text data-detail="context" x="780" y="325" class="t-muted" font-size="9" text-anchor="middle">Markdown · Wiki · HTML · JSON</text>
         </g>
 
         <g id="node-webview" data-node-id="webview" data-node-label="Offline preview" tabindex="0" role="button" aria-label="Focus Offline preview, WKWebView · restricted CSP, Architecture component" aria-pressed="false" data-node-kind="frontend" data-node-sublabel="WKWebView · restricted CSP" data-node-context="Architecture component">
@@ -5567,6 +5567,7 @@ OTHER DEALINGS IN THE FONT SOFTWARE.
         <ul>
           <li>&bull; Document scripts and network blocked</li>
           <li>&bull; Only confirmed web links leave the app</li>
+          <li>&bull; JSON validates without changing source</li>
         </ul>
       </div>
     </div>

diff --git a/docs/diagrams/README.md b/docs/diagrams/README.md
@@ -8,12 +8,14 @@ editor, controller, preview, persistence and local integration boundaries.
 
 ## Source evidence
 
-Source snapshot: `73adb159cf5579e12d25bb16bd4c21d1ea8dd4b3`.
-All ten component references were verified against that commit and origin.
+Source snapshot: `4a90c64e67d5fc52b7861e375b01907dca56f409`.
+All twelve source references across ten components were verified against that commit and origin.
 The JSON source is `architecture.json`; the published artifact is `../index.html`.
 The arrows describe selected outbound operations, not every callback or return.
 “Database” is Archify's storage category; TextUI uses files and JSON, not a database server.
-Preview rendering includes Markdown and DokuWiki conversion plus HTML pass-through.
+Preview rendering includes Markdown and DokuWiki conversion, HTML pass-through,
+and JSON validation/indentation. JSON formatting preserves key order, number
+precision and string escapes; errors include line/column. The source stays unchanged.
 The confirmed-link path is coordinated by AppDelegate. The clipboard path uses
 PreviewCodeCopy in an isolated WebKit content world.
 
@@ -30,7 +32,7 @@ runtime acceptance tests.
 - Light/dark captures: both endpoint sizes; no horizontal or vertical overflow.
 - Perceptual review: passed after inspection of the 1440×900 light and
   2048×1320 dark screenshots; clear routes, readable labels and balanced layout.
-- Geometry correction rounds: 1 (two downward relationship labels).
+- Geometry correction rounds for this update: 0 (existing layout preserved).
 - Viewer interaction and export workflows were not separately exercised.
 
 `delivery.json` records exact specification and artifact SHA-256 digests.
